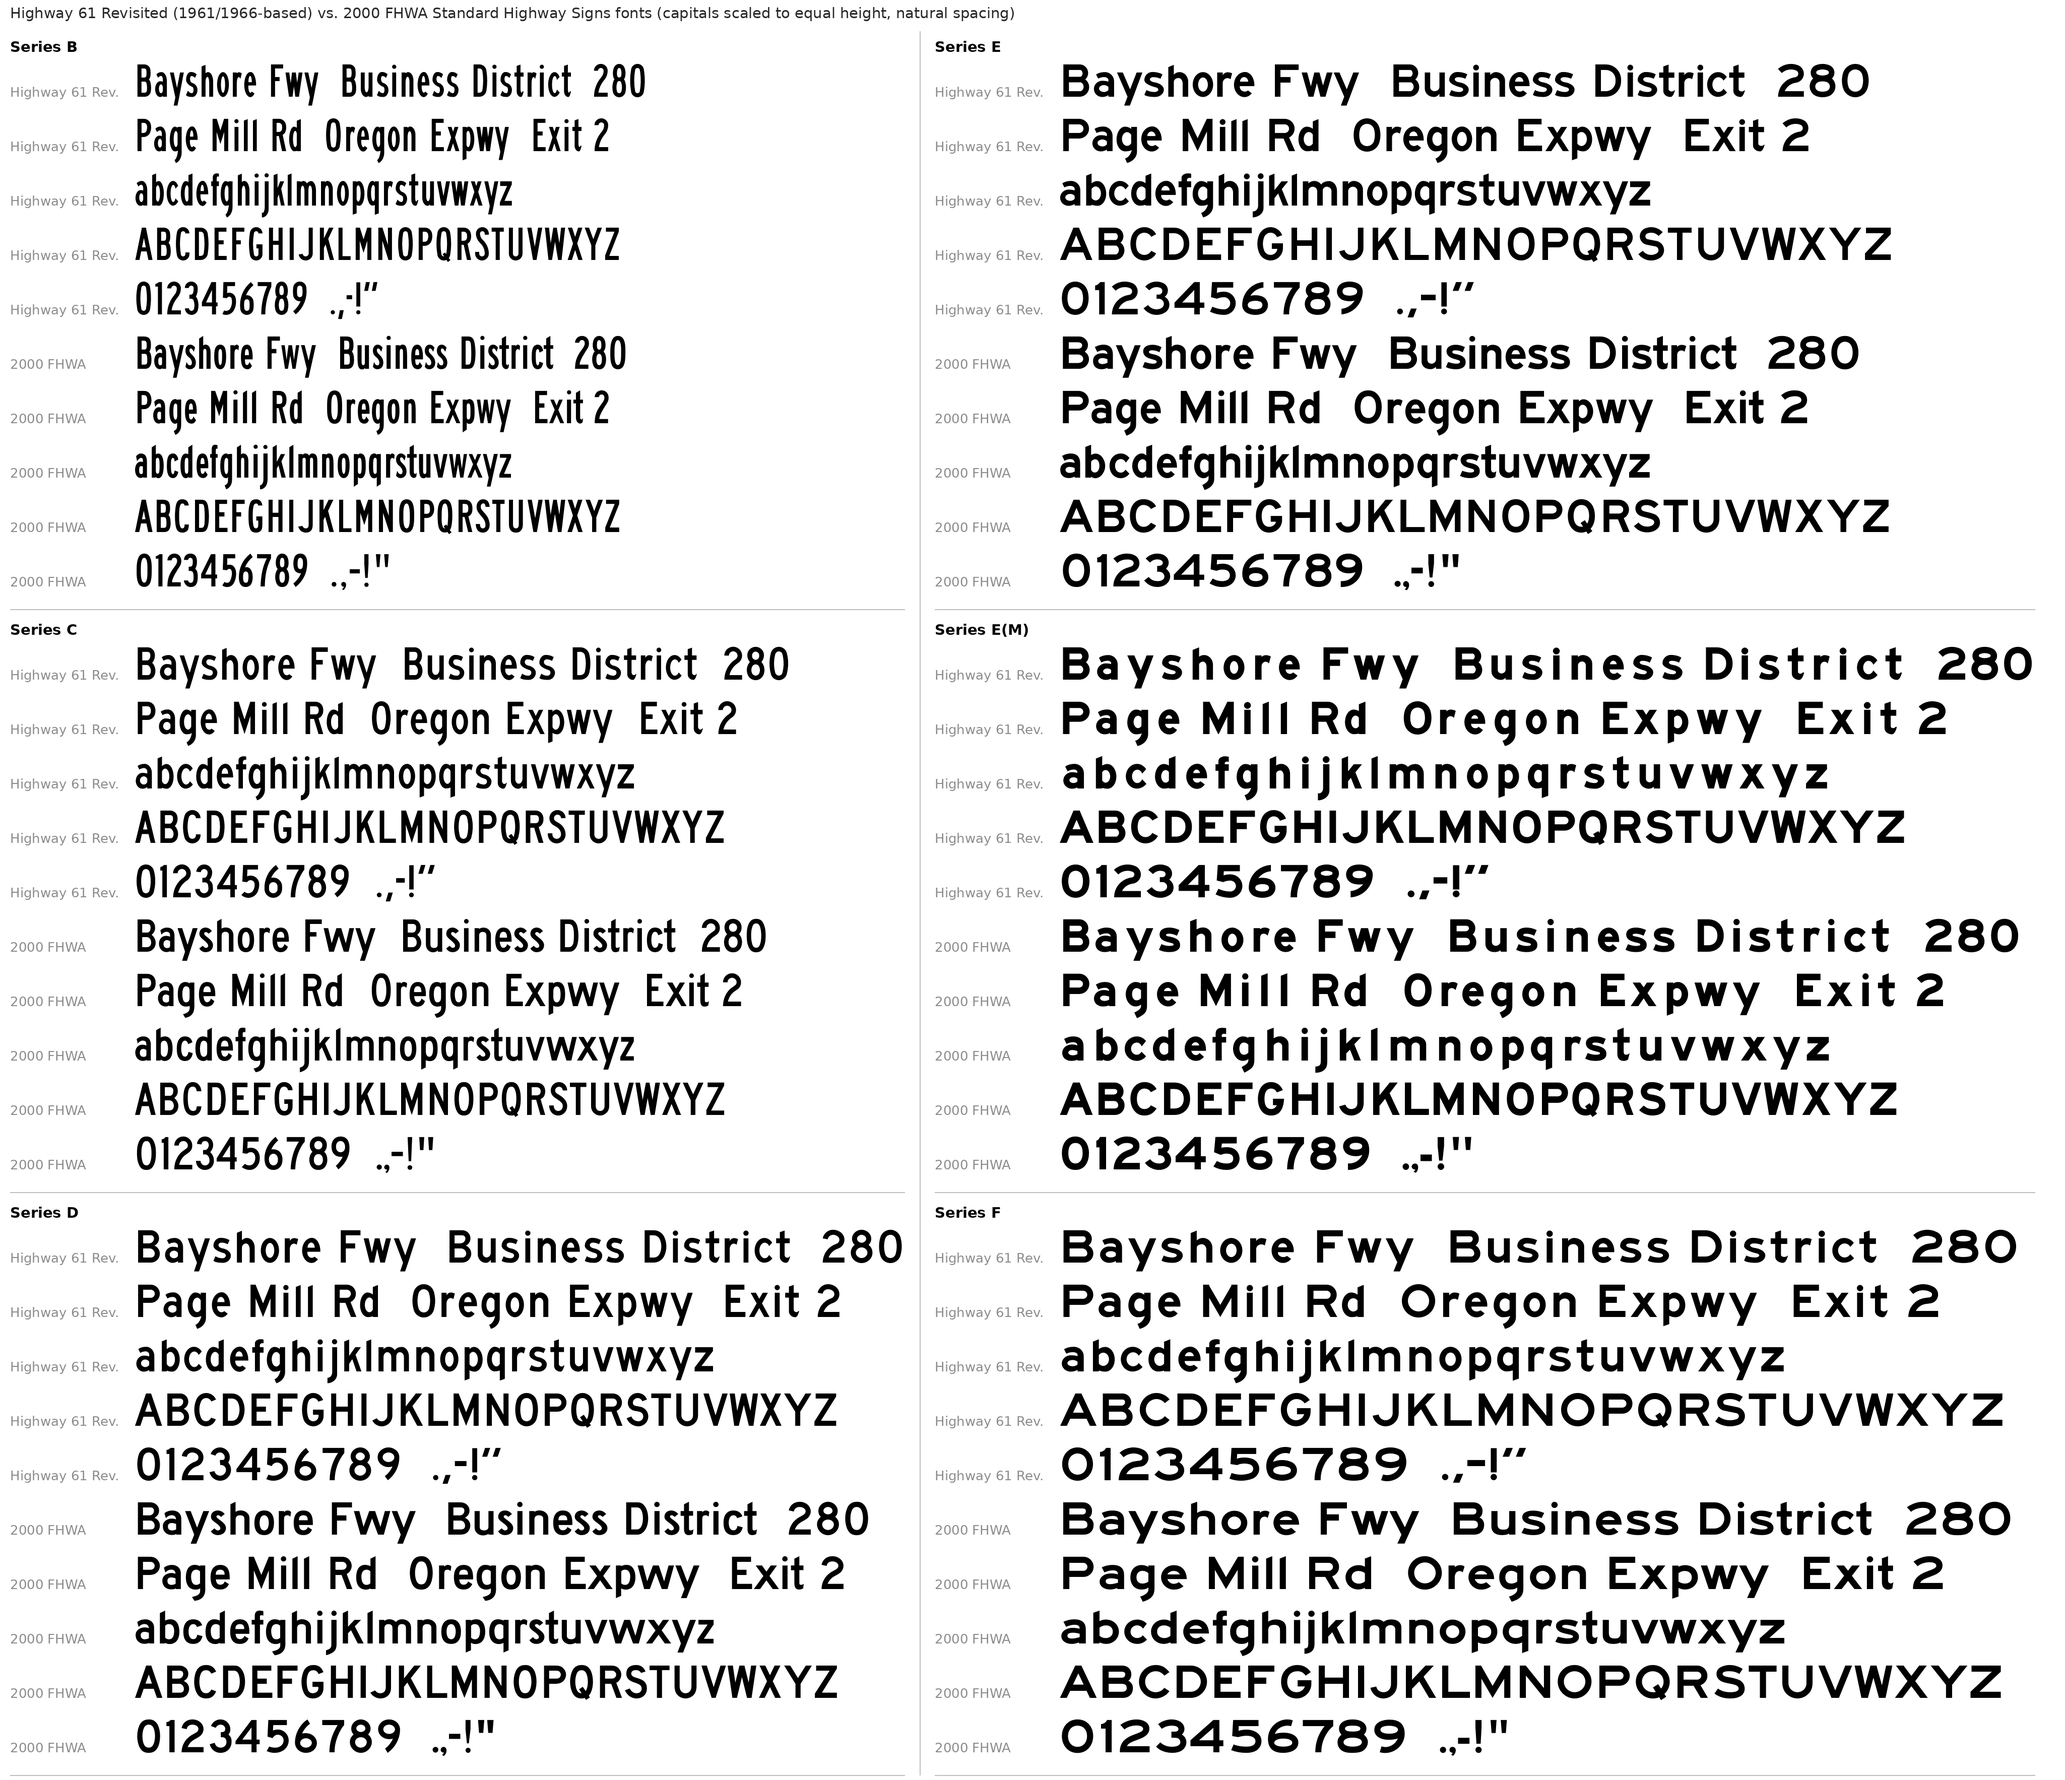
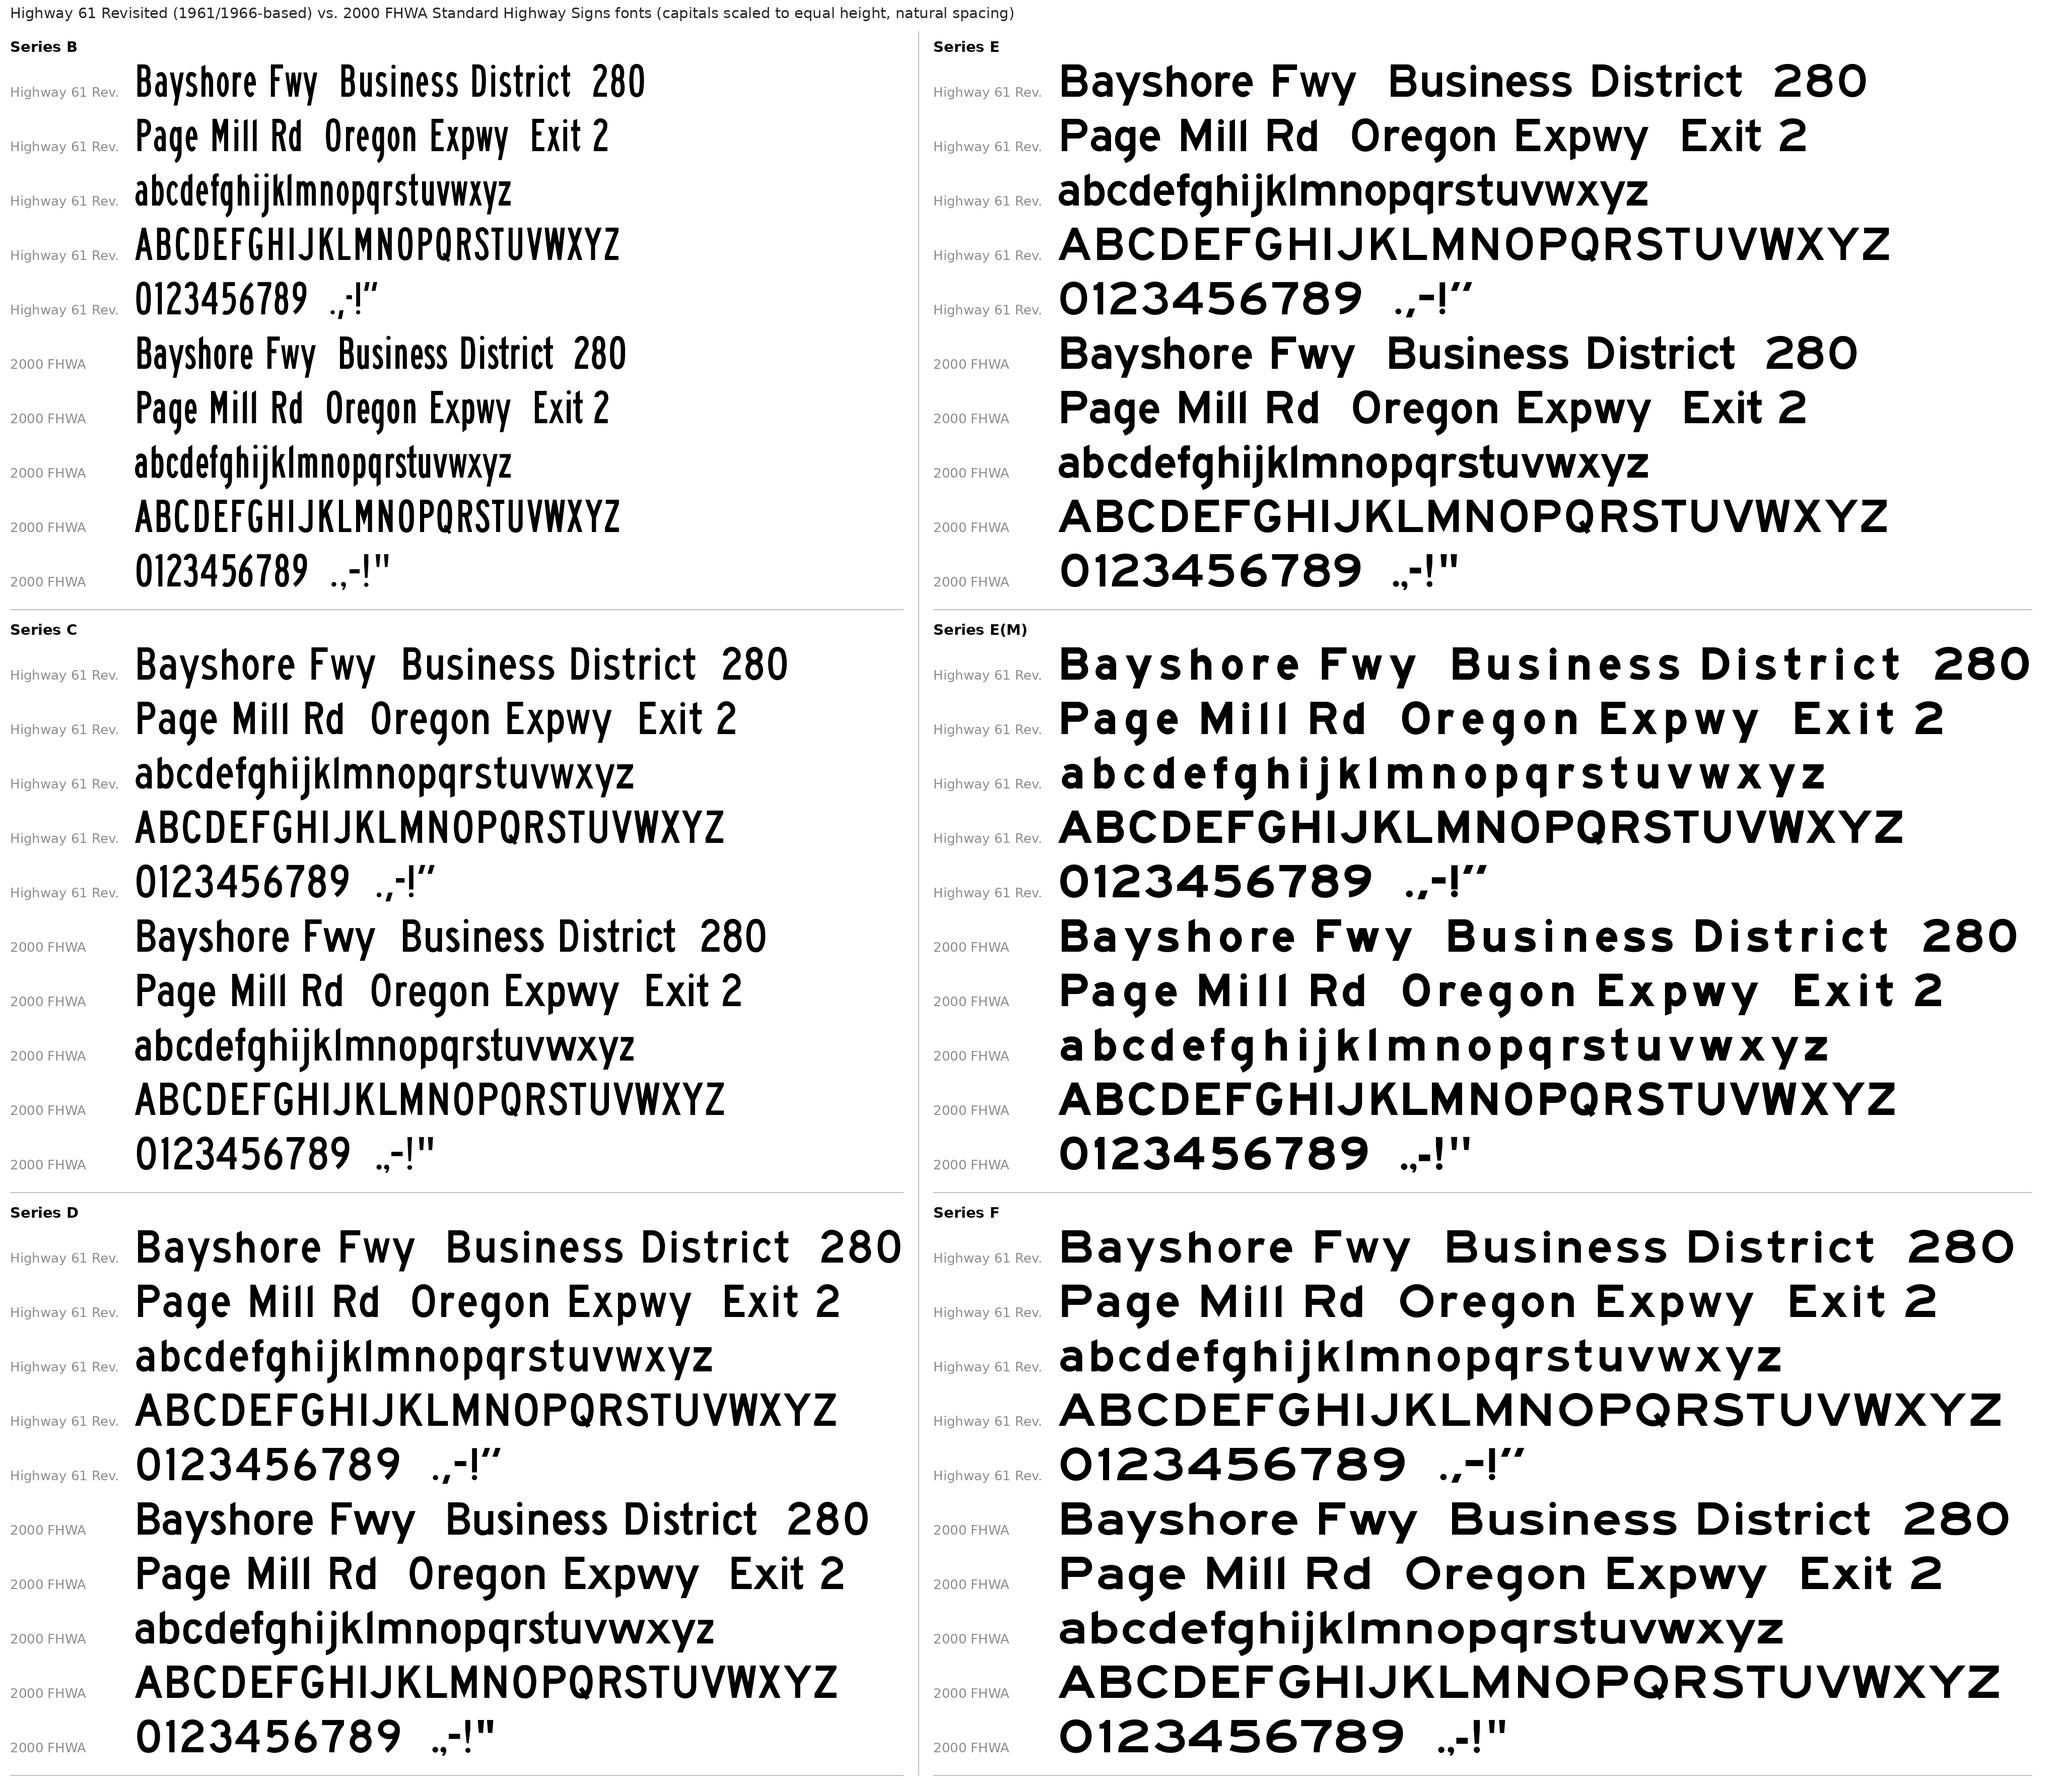
Lighten the w in every series
Strokes thinned by 15% of the series stroke (inward offset, baseline and
x-height restored), about 0.82 of the v across, near the FHWA Series B
2000 w; crotches deepen with it.

Claude-Session: https://claude.ai/code/session_01XskEBfdJQTrEgufDyH5qk6

diff --git a/highway1966/work/build1961.py b/highway1966/work/build1961.py
@@ -83,6 +83,17 @@ if S in 'BCDEF':                                 # condensed / expanded lower ca
     import lccondense
     for c, C in lccondense.series(S).items():
         new[c] = SegShifted(C, c)
+W_LIGHT = 0.15                                   # the w's strokes thinner by this fraction of the series stroke
+def _lighter_w(C, T):
+    """offset inward by W_LIGHT*T/2, then baseline and x-height restored (four strokes in one letter read heavy)"""
+    X = 517.5; d = W_LIGHT * T / 2
+    bands = [(-1e9, d, 1.0, -d), (d, X - d, X / (X - 2 * d), -d * X / (X - 2 * d)), (X - d, 1e9, 1.0, d)]
+    return strokeop.vmap(strokeop.offset(C, -d), bands)
+if S in 'BCDEF':
+    new['w'] = SegShifted(_lighter_w(new['w'].c, lccondense.stroke(S)), 'w')
+else:
+    g, prims = lcE.series()['w']
+    new['w'] = SegShifted(_lighter_w(strokeop.from_lc(g, prims), (1 + 9 / 16) * 690 / 8), 'w')
 import punct
 from shapely.geometry import Polygon as _Poly
 def _glyph_poly(n):

diff --git a/highway1966/HANDOFF.md b/highway1966/HANDOFF.md
@@ -311,6 +311,11 @@ ends keep their angles.
   the outermost vertices anywhere on the cut line: at B 0.55 the inside of the t's foot crossed the t's terminal
   line and had a 15-unit notch taken out of it.  `series(S, f, only)` builds a subset of letters for tests.
 
+### Lighter w (Claude Code session 2026-10-16)
+- `build1961.W_LIGHT` = 0.15: in every series the w is offset inward by 0.075 x the series stroke and its baseline
+  and x-height restored (vmap bands), so its strokes are about 0.82 of the v's across (FHWA Series B 2000 w: 0.80;
+  their other series leave the w at v weight).  The offset also deepens the crotches.
+
 ### Next steps
 0. Lower case: harmonise shared dimensions (stem, overshoot, bowl family a/b/d/g/p/q), improve t, f, s; the user
    reviewed the first full set; their notches/joins list (a f h n r s t u) is fixed (2026-10-16).
